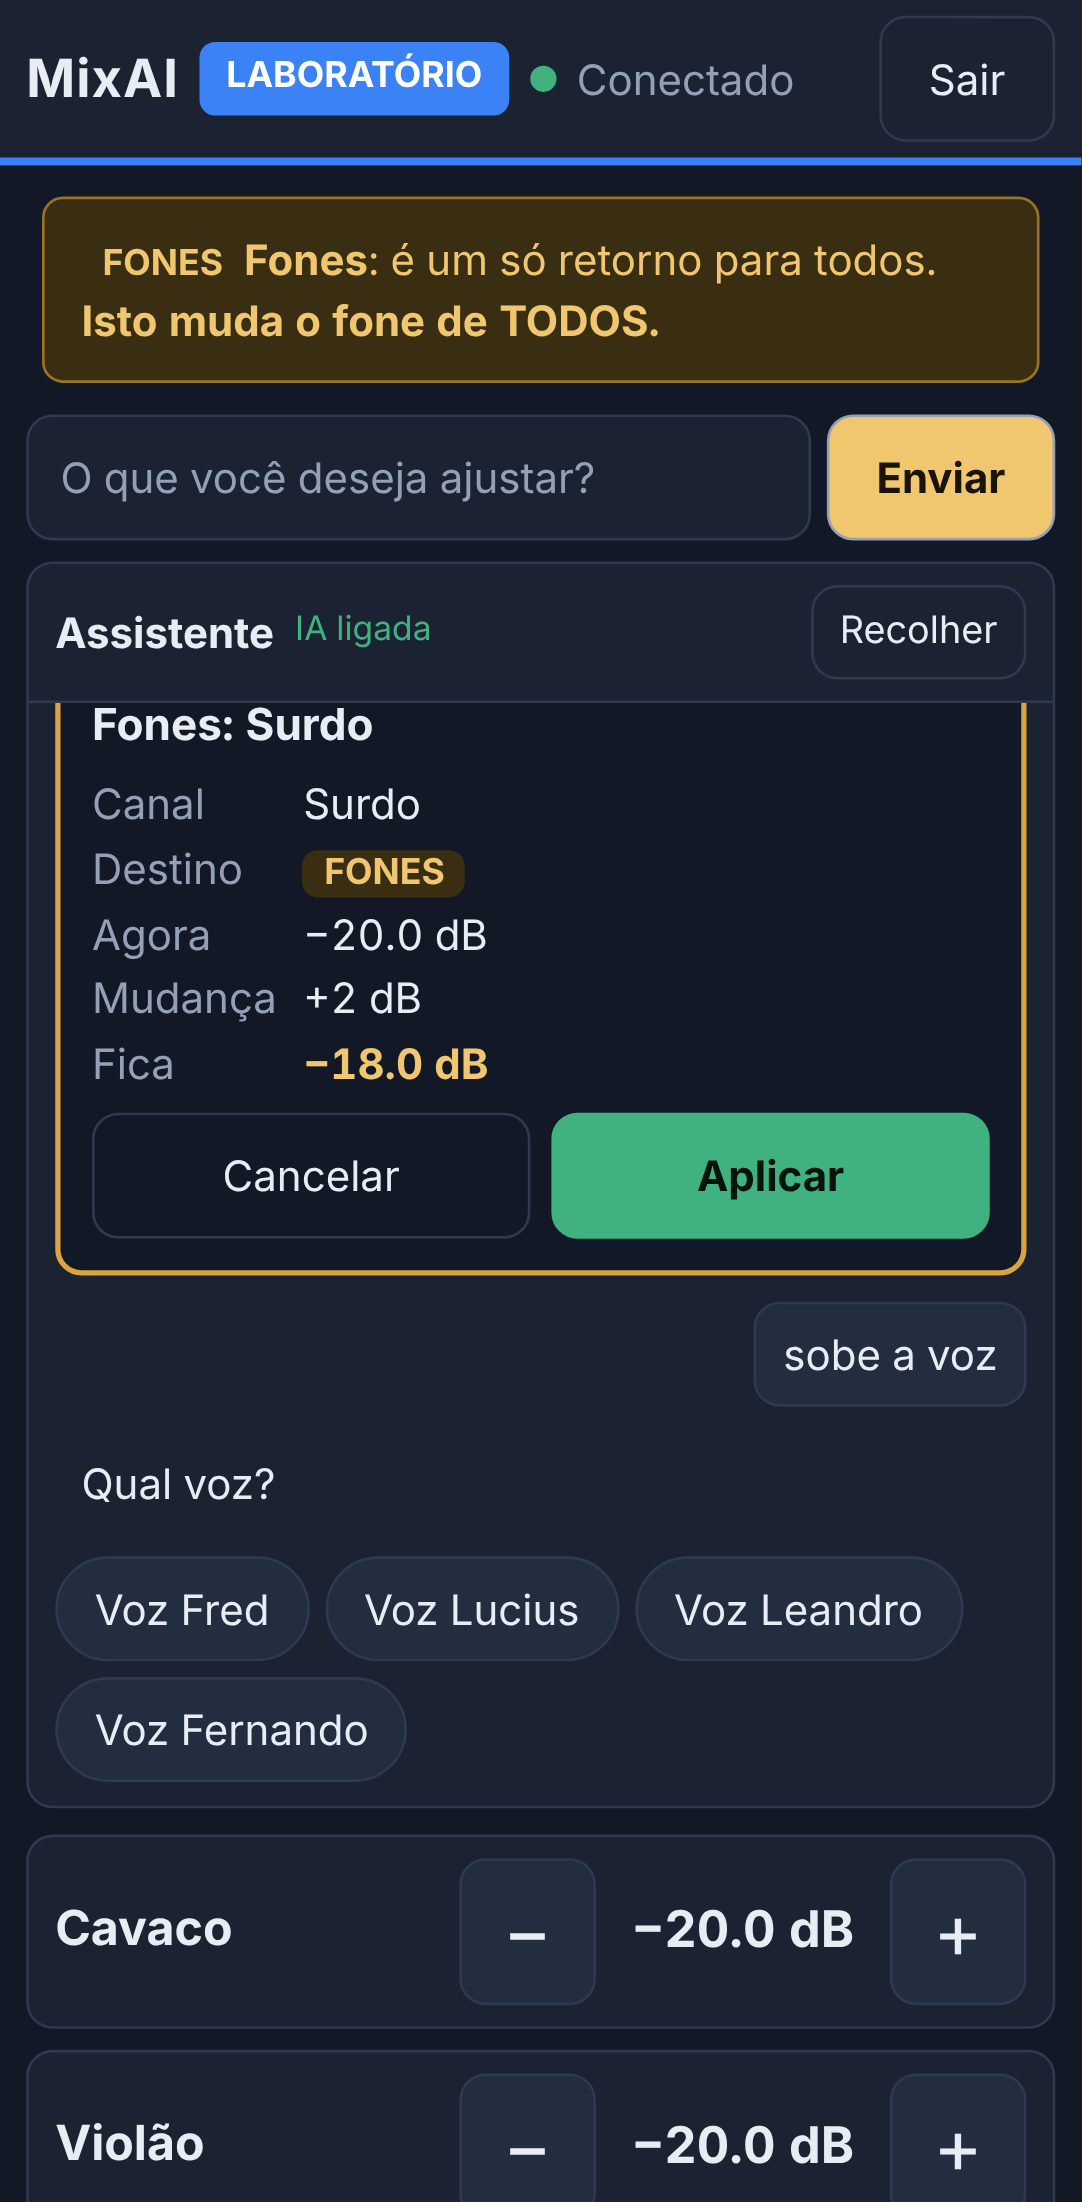
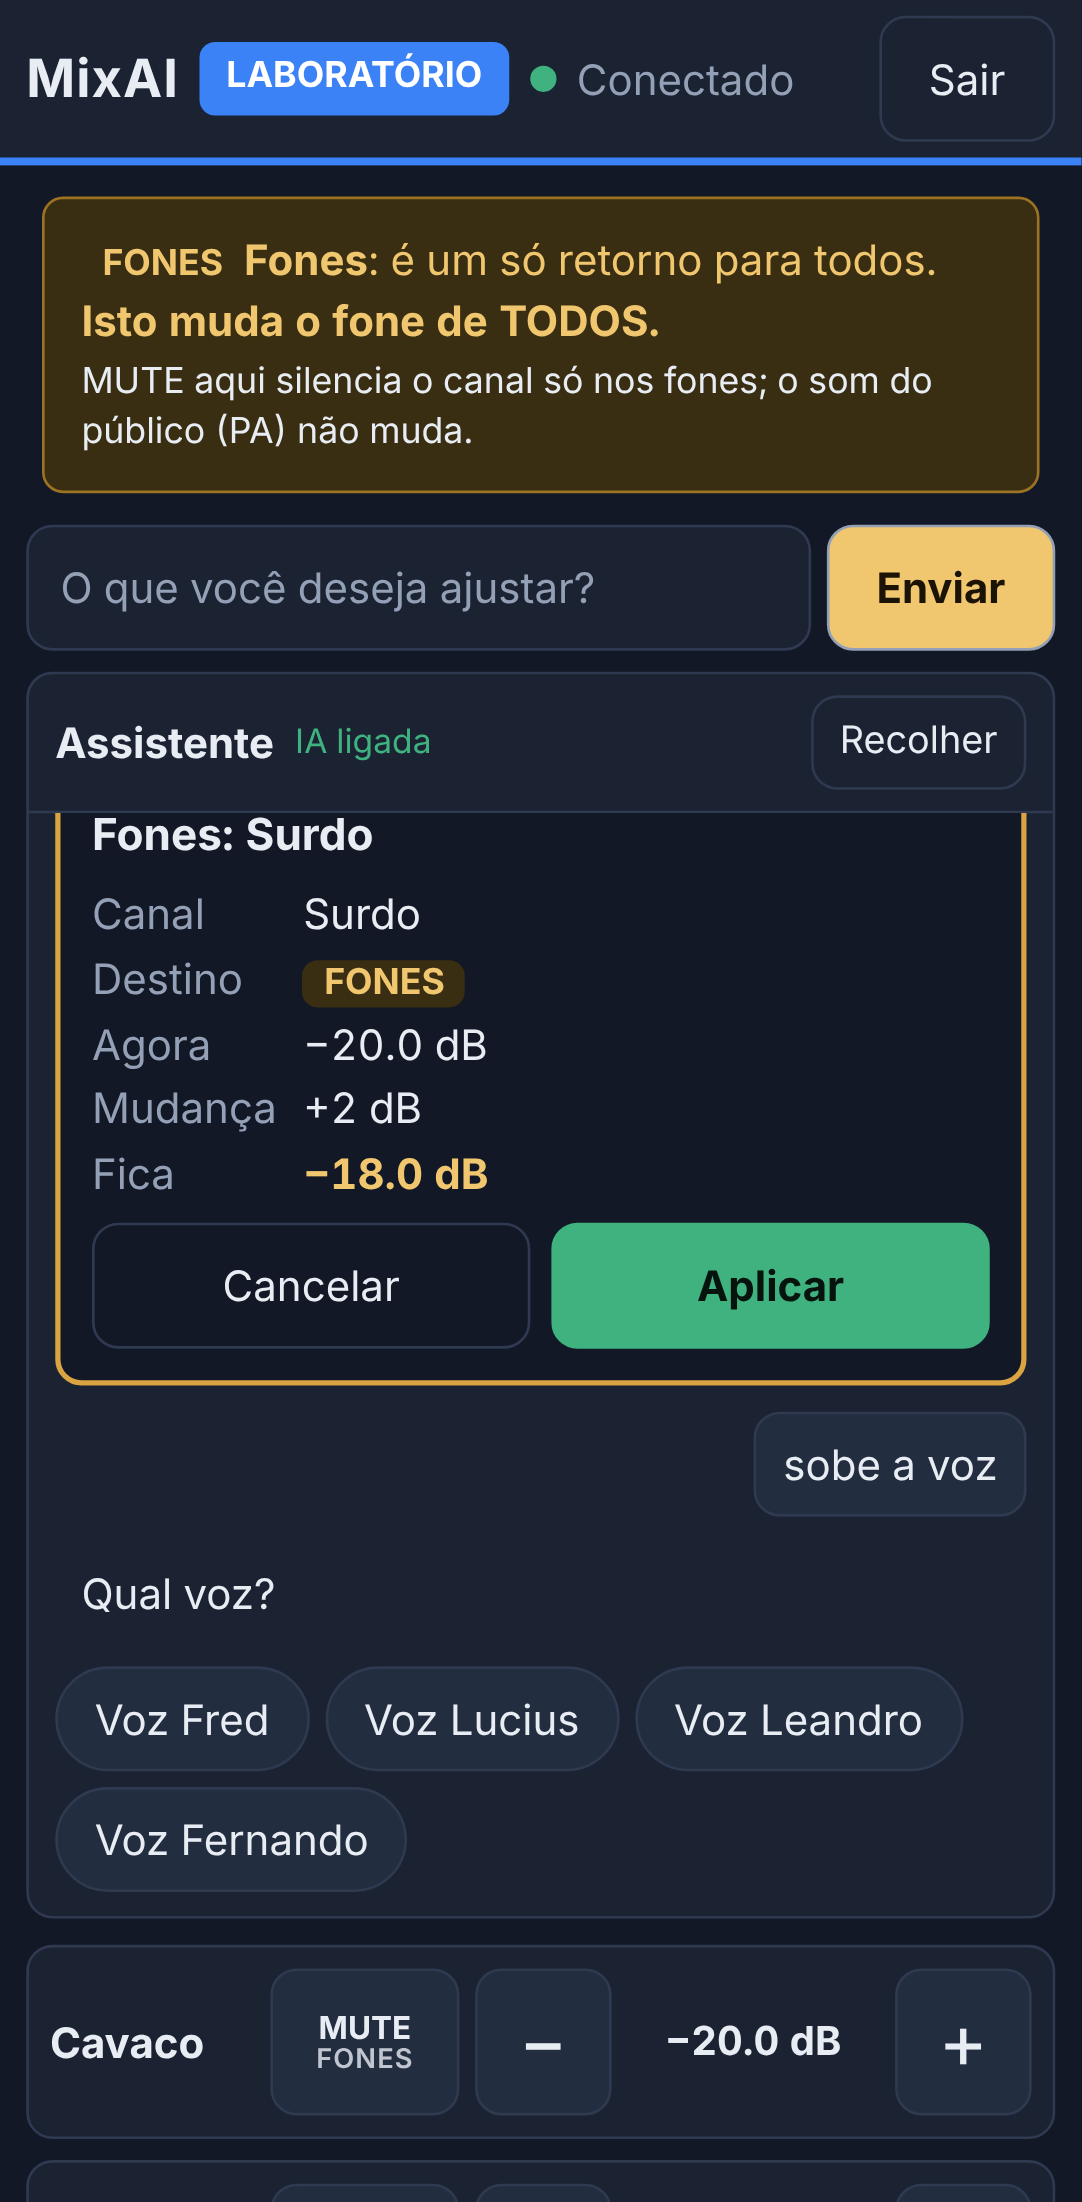
docs: celular deitado e MUTE do músico (causa, correção, testes, capturas)
docs/lab/11-CELULAR-PAISAGEM-MUTE.md, capturas mobile-*.png nos dois
modos de orientação (npm run screenshots), capturas do músico da E3/E4
regeneradas (agora com MUTE), README e ESTADO-ATUAL.

Claude-Session: https://claude.ai/code/session_01ALNfJPYNgshdvedMN7ticP

diff --git a/test/e2e/screenshots.test.ts b/test/e2e/screenshots.test.ts
@@ -1,6 +1,7 @@
 import { mkdirSync, readFileSync } from 'node:fs';
 import { join } from 'node:path';
 import { it } from 'vitest';
+import { devices } from 'playwright';
 import { PROJECT_ROOT } from '../../src/core/config.js';
 import { bandChannels, enter, launch, MUSICIAN_PIN, OPERATOR_PIN, PHONE, startLab, YOGA } from './harness.js';
 
@@ -145,3 +146,39 @@ it('capturas das cenas (E5, Yoga)', async () => {
     await l.server.close();
   }
 }, 60_000);
+
+it('capturas do celular em retrato e deitado (operador e músico)', async () => {
+  const out = join(PROJECT_ROOT, 'docs', 'lab', 'img');
+  const l = await startLab({ channels: bandChannels(), server: { musicianAccess: 'pa_without_master' } });
+  const browser = await launch();
+  try {
+    const op = await l.login(OPERATOR_PIN);
+    const mix: Array<[number, number]> = [[1, -6], [2, -9], [3, -4], [4, -5], [5, -7], [6, -3], [7, -12], [8, -14], [9, -8], [10, -16]];
+    for (const [ch, db] of mix) await l.command(op, { type: 'set_level', channel: ch, db });
+    await l.command(op, { type: 'set_mute', channels: [7], aux: 1, muted: true });
+    await l.command(op, { type: 'set_mute', channels: [8], muted: true });
+    const shot = async (pin: string, device: object, file: string, prepare?: (p: import('playwright').Page) => Promise<void>) => {
+      const s = await enter(browser, l.base, pin, device);
+      await s.page.evaluate(() => scrollTo(0, 0));
+      if (prepare) await prepare(s.page);
+      await s.page.waitForTimeout(500);
+      await s.page.screenshot({ path: join(out, file) });
+      await s.ctx.close();
+    };
+    const portrait = devices['Galaxy S24']!;
+    const landscape = devices['Galaxy S24 landscape']!;
+    await shot(OPERATOR_PIN, portrait, 'mobile-operador-retrato.png');
+    await shot(OPERATOR_PIN, landscape, 'mobile-operador-deitado.png');
+    await shot(OPERATOR_PIN, landscape, 'mobile-operador-deitado-rolado.png', async (p) => {
+      await p.evaluate(() => scrollTo(0, document.documentElement.scrollHeight));
+    });
+    await shot(MUSICIAN_PIN, portrait, 'mobile-musico-fones-retrato.png');
+    await shot(MUSICIAN_PIN, landscape, 'mobile-musico-fones-deitado.png');
+    await shot(MUSICIAN_PIN, landscape, 'mobile-musico-pa-deitado.png', async (p) => {
+      await p.getByRole('tab', { name: 'PA' }).click();
+    });
+  } finally {
+    await browser.close();
+    await l.server.close();
+  }
+}, 90_000);

diff --git a/docs/lab/11-CELULAR-PAISAGEM-MUTE.md b/docs/lab/11-CELULAR-PAISAGEM-MUTE.md
@@ -1,0 +1,98 @@
+# Celular deitado e MUTE rápido do músico
+
+Branch `fix/mobile-landscape-mute`. Ajustes de UX vindos do teste com um celular Samsung Galaxy no Chrome para Android, **só no LABORATÓRIO**. Não inicia a E6.
+
+## 1. Mesa do operador com o celular deitado
+
+**Reproduzido (Playwright, Galaxy S24 deitado, 780×360):** os faders praticamente sumiam; os nomes apareciam e o MASTER continuava à direita.
+
+**Causa (estrutura do layout):**
+- Deitado, o celular tem mais de 720 px de largura e caía no **layout do notebook** (as regras de celular eram só `max-width: 720px`).
+- Nesse layout a Mesa fica presa à altura da tela (`.mx-view` com `height: 100%`), e a `.mesa-main` encolhe para caber (`flex: 1; min-height: 0`).
+- A barra superior quebrava em 2–3 linhas (130–190 px), e sobravam ~90 px para os canais.
+- A `.strips` tem `overflow-x: auto`, o que também corta na vertical: o canal precisa de ~330 px (nome, fader com mínimo de 180 px, valor, MUTE), e o fader era cortado.
+- O MASTER não tem esse `overflow`, então transbordava e continuava visível.
+
+**Correção:** um layout para **tela baixa** (`@media (max-height: 560px)`, o celular deitado), declarado depois das regras de 720 px. Não vale para o Yoga, que tem mais de 650 px de altura útil.
+
+| Antes | Agora |
+| --- | --- |
+| Mesa presa à altura da tela | a Mesa cresce com o conteúdo; a **página rola na vertical** |
+| canais com ~90 px de altura | canais e MASTER com altura própria: `max(300px, 100dvh − 12px)` (fader com ~200 px, nunca abaixo do usável) |
+| barra em 2–3 linhas | barra de estado e barra de ferramentas compactas, **uma linha cada**; com largura de 780 px ou mais, PA/FONES, assistente, Assistente, Desfazer, Histórico e Cenas cabem inteiros |
+| MASTER transbordando | grade: canais à esquerda (rolagem horizontal), MASTER separado à direita; Assistente, Histórico e aprovações embaixo, em largura total |
+
+A legenda "Medidores SIMULADOS" sai da barra nesse modo (cada canal continua com o selo SIM). O aviso dos FONES continua. Nenhum controle foi escondido e nada depende de `z-index`.
+
+**Rotação:**
+- **Sem recarregar:** valores e posição dos faders vêm do estado do servidor e não mudam.
+- **Rolagem horizontal mantida:** a Mesa guarda qual canal está à esquerda e volta a ele quando a área muda de tamanho.
+- **Nenhum comando durante a rotação.** O fader tratava `pointercancel` (o sistema cancela o toque ao girar) como "soltou" e **enviava o valor**. Agora `pointercancel` só cancela na tela. Se o gesto já tinha enviado valores, o servidor fecha o gesto sozinho, como quando a conexão cai no meio de um arraste.
+
+**Aparelhos estreitos:** em 658 px de largura (Galaxy S9+ deitado), "Cenas" fica alcançável deslizando a barra de ferramentas para o lado.
+
+![Mesa deitada no Galaxy S24](img/mobile-operador-deitado.png)
+![Mesa deitada, rolada: faders inteiros e aprovação embaixo](img/mobile-operador-deitado-rolado.png)
+![Mesa em retrato](img/mobile-operador-retrato.png)
+
+## 2. MUTE rápido do músico
+
+Cada canal tem um botão **MUTE / ABRIR** nos FONES e, quando autorizado, no PA (`web/src/app/views/fones-list.component.ts`).
+
+| Modo | FONES | PA |
+| --- | --- | --- |
+| `fones_only` (padrão) | MUTE/ABRIR no AUX autorizado | não aparece; o servidor recusa |
+| `pa_without_master` | MUTE/ABRIR | MUTE/ABRIR de **um** canal com um toque |
+
+- **Correção do `toggleMute()`:** ele não enviava o AUX (só funcionava no PA). Agora FONES envia `aux: <AUX dos músicos>` e PA vai sem AUX, sempre **um canal**.
+- **O botão:**
+  - mostra o destino (`MUTE` com "FONES" ou "PA" embaixo);
+  - fica **vermelho** quando mutado, e a linha ganha borda vermelha;
+  - tem pelo menos 48 px;
+  - atualiza o estado pela resposta do servidor;
+  - fica desabilitado sem conexão e durante o pedido pendente, quando mostra "…" e toques repetidos não geram outro comando.
+- **Aviso nos FONES:** "MUTE aqui silencia o canal só nos fones; o som do público (PA) não muda."
+- **Sem mute geral** e sem MASTER para o músico. A autorização do servidor **não mudou**: ele já recusava PA em `fones_only`, mute em grupo no PA e master.
+
+![Músico, FONES em retrato](img/mobile-musico-fones-retrato.png)
+
+## 3. Músico deitado
+
+- `−`, `+` e MUTE visíveis e com pelo menos 44 px de altura.
+- Valor sem invadir o `+`.
+- Com 760 px de largura ou mais, os canais ficam em **duas colunas**, aproveitando a largura.
+- A página não rola para o lado.
+
+![Músico, FONES deitado](img/mobile-musico-fones-deitado.png)
+![Músico, PA deitado](img/mobile-musico-pa-deitado.png)
+
+## Testes
+
+| Conjunto | Total | Novos |
+| --- | --- | --- |
+| Servidor (`npm test`) | 335 | — (a autorização não mudou) |
+| Interface (`npm run test:web`) | 49 | 3: AUX no comando dos FONES, PA sem AUX, toque repetido, sem conexão |
+| E2E (`npm run test:e2e`) | 44 | 9 em `test/e2e/mobile.test.ts` |
+
+**Os 9 e2e** (Galaxy S24, Chromium com toque):
+- **Operador:**
+  - retrato;
+  - deitado: faders inteiros dentro da fileira, rolagem horizontal, MASTER separado, barra numa linha com todos os botões na tela, rolagem vertical, fader funcionando, PA/FONES, Histórico e Cenas abrindo;
+  - **retrato → deitado → retrato sem recarregar**, com valores e canal à vista mantidos e **nenhum comando enviado**;
+  - **toque real cancelado** (`touchCancel` via CDP), sem envio.
+- **Músico:**
+  - `fones_only`: MUTE/ABRIR só no AUX, PA e MASTER recusados por WebSocket forjado;
+  - `pa_without_master`: PA e FONES com um toque, sem MASTER, mute em grupo recusado;
+  - toques repetidos com o pedido pendente viram **um** comando, e o botão fica desabilitado sem conexão;
+  - deitado: duas colunas, sem rolagem lateral.
+- **Yoga sem regressão:** página sem rolagem, faders com mais de 300 px, legenda e 11 canais.
+
+O registro de comandos é ligado **antes** do login: o teste confere que ele captura frames, para que "nenhum comando" não passe sem conferir nada.
+
+**Mutações conferidas:**
+- com o `pointercancel` antigo, o teste do toque cancelado falha (1 comando enviado);
+- sem o AUX no `toggleMute()`, 3 testes falham.
+
+**Teste anterior ajustado:** o `ui.test.ts` contava 22 botões `.step` do músico. Agora são 33 (11 canais × MUTE, −, +), mantendo a verificação de pelo menos 48 px.
+
+As capturas desta página saem de `npm run screenshots`. As do músico na E3/E4 foram regeneradas, porque agora mostram o MUTE.

diff --git a/ESTADO-ATUAL.md b/ESTADO-ATUAL.md
@@ -91,8 +91,8 @@ src/
 config/
   config.yaml         modo, IP, travas
   channels.yaml       nomes da banda
-test/                 335 testes (Vitest) + 35 de integração com navegador (test/e2e)
-web/                  interface Angular (46 testes unitários)
+test/                 335 testes (Vitest) + 44 de integração com navegador (test/e2e)
+web/                  interface Angular (49 testes unitários)
 ```
 
 ---
@@ -138,7 +138,7 @@ a pilha de desfazer (até 50 ações).
 
 ## 5. Testes
 
-335 testes do servidor + 46 da interface + 35 de integração com navegador passando (Linux; o CI roda também em Windows). Inclui, além dos 40 originais:
+335 testes do servidor + 49 da interface + 44 de integração com navegador passando (Linux; o CI roda também em Windows). Inclui, além dos 40 originais:
 
 - nomes da banda (acentos, apelidos, "canal 9", "retorno do ...", limites da Ui16);
 - travas (teto, passo máximo, confirmação, rate limit, sem conexão);
@@ -150,6 +150,9 @@ a pilha de desfazer (até 50 ações).
   MCP sem servidor, reinício invalida sessões, um só controlador, rede do Yoga, segredos;
   correções da revisão: escrita nunca repetida após reinício (INDETERMINATE), desfazer crítico com
   aprovação, WebSocket revogado no logout/vencimento, trava de dono entre instalações e processos);
+- **Celular deitado e MUTE do músico (`docs/lab/11-CELULAR-PAISAGEM-MUTE.md`):** Mesa utilizável
+  com o celular deitado (layout de tela baixa, rotação sem comandos), MUTE/ABRIR por canal nos
+  FONES e no PA (quando autorizado);
 - **E5 — cenas do MixAI (`docs/lab/10-E5-CENAS.md`):** salvar/duplicar/renomear/excluir,
   importar/exportar JSON (formato v2, −∞ preservado, versão e equipamento conferidos), comparação
   por PA/FONES/MASTER, carregamento só no LAB com pendência da E2 vinculada às revisões, um item

diff --git a/README.md b/README.md
@@ -95,6 +95,13 @@ Detalhes, capturas e testes: `docs/lab/07-E3-INTERFACE.md`.
 
 ![Mesa no Yoga](docs/lab/img/e3-yoga-mesa-pa.png)
 
+## Celular (deitado e retrato)
+
+A Mesa funciona com o celular **deitado**: barra compacta numa linha, faders inteiros com rolagem
+horizontal dos canais, MASTER separado à direita e a página rolando na vertical; girar a tela não
+envia nenhum comando. O músico tem **MUTE / ABRIR** por canal nos FONES (e no PA, se
+`server.musicianAccess` permitir). Detalhes e capturas: `docs/lab/11-CELULAR-PAISAGEM-MUTE.md`.
+
 ## Cenas do MixAI (E5)
 
 Na Mesa, o botão **Cenas** abre um painel para salvar o estado do LABORATÓRIO como cena (nome e
